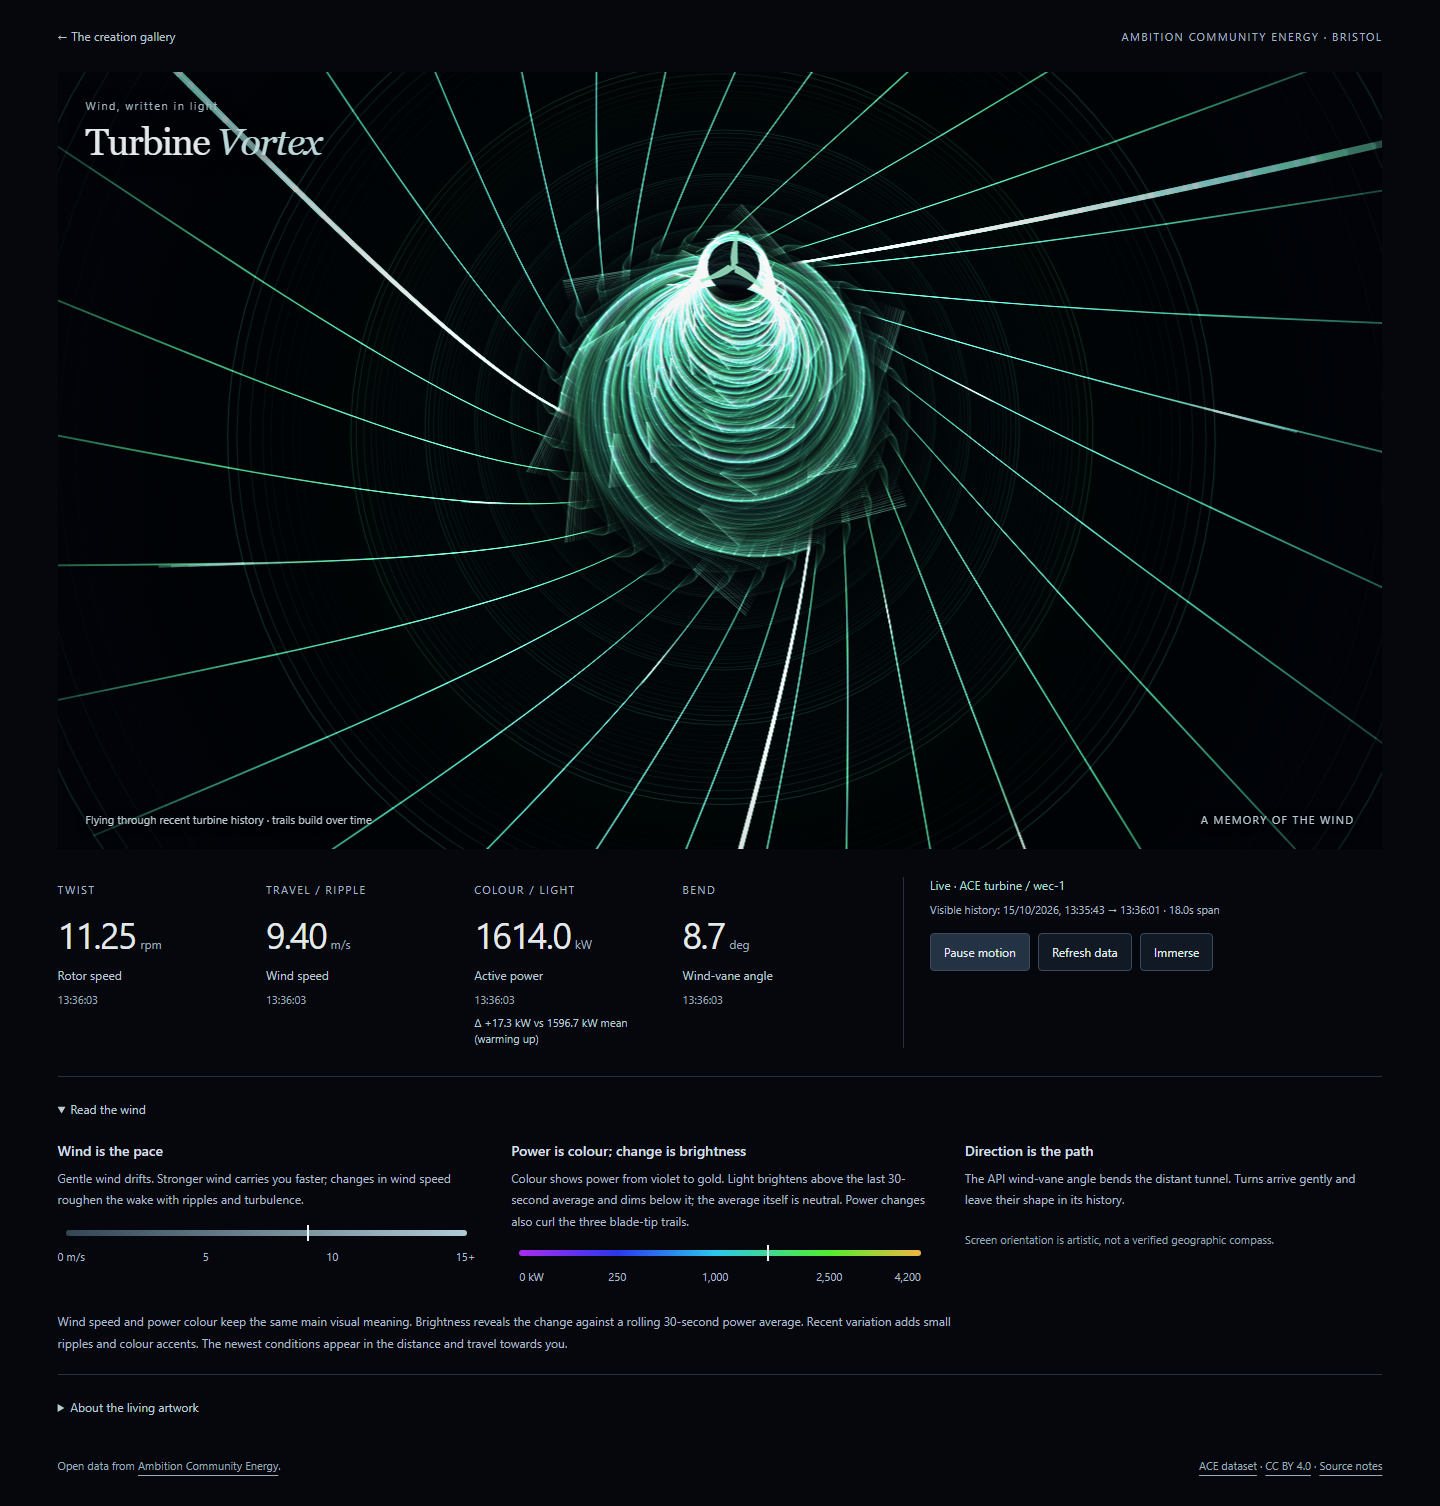
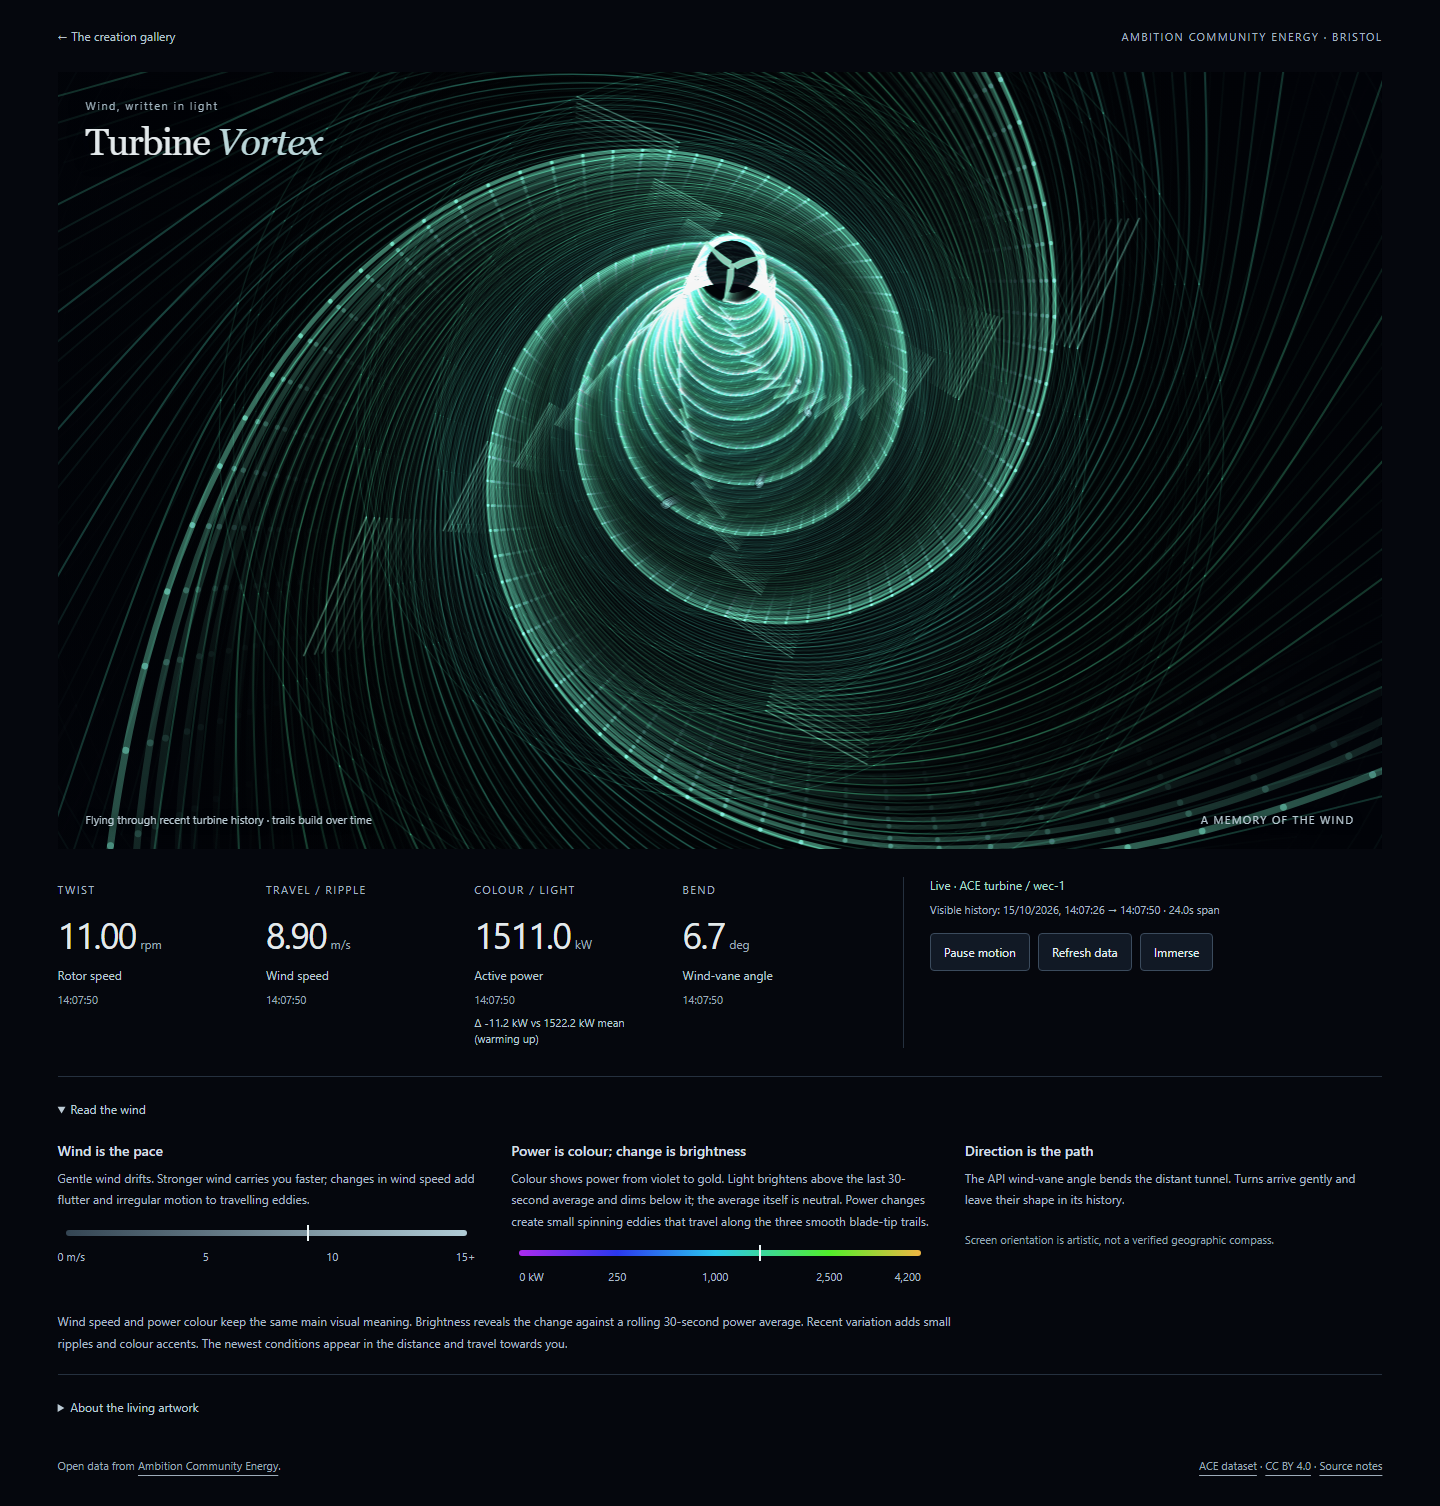
Replace wake deformation with separate travelling spinning eddies

diff --git a/site/creations/turbine-vortex/index.html b/site/creations/turbine-vortex/index.html
@@ -15,8 +15,8 @@
 <div><span class="eyebrow">BEND</span><p><strong id="direction">—</strong> <span>deg</span></p><span class="label">Wind-vane angle</span><time id="direction-time">No observation</time></div>
 </div><div class="connection"><p id="status" role="status">Connecting to ACE…</p><p id="observed">No readings yet</p><div class="controls"><button id="pause" type="button" aria-pressed="false">Pause motion</button><button id="refresh" type="button">Refresh data</button><button id="fullscreen" type="button">Immerse</button></div></div></section>
 <details class="reading-guide" open><summary>Read the wind</summary><div class="legend-grid">
-<div><h2>Wind is the pace</h2><p>Gentle wind drifts. Stronger wind carries you faster; changes in wind speed roughen the wake with ripples and turbulence.</p><div class="scale wind-scale" aria-hidden="true"><i id="wind-marker"></i></div><div class="scale-labels"><span>0 m/s</span><span>5</span><span>10</span><span>15+</span></div></div>
-<div><h2>Power is colour; change is brightness</h2><p>Colour shows power from violet to gold. Light brightens above the last 30-second average and dims below it; the average itself is neutral. Power changes also curl the three blade-tip trails.</p><div class="scale power-scale" aria-hidden="true"><i id="power-marker"></i></div><div class="power-labels"><span style="--at:0%">0 kW</span><span style="--at:24.4%">250</span><span style="--at:48.8%">1,000</span><span style="--at:77.2%">2,500</span><span style="--at:100%">4,200</span></div></div>
+<div><h2>Wind is the pace</h2><p>Gentle wind drifts. Stronger wind carries you faster; changes in wind speed add flutter and irregular motion to travelling eddies.</p><div class="scale wind-scale" aria-hidden="true"><i id="wind-marker"></i></div><div class="scale-labels"><span>0 m/s</span><span>5</span><span>10</span><span>15+</span></div></div>
+<div><h2>Power is colour; change is brightness</h2><p>Colour shows power from violet to gold. Light brightens above the last 30-second average and dims below it; the average itself is neutral. Power changes create small spinning eddies that travel along the three smooth blade-tip trails.</p><div class="scale power-scale" aria-hidden="true"><i id="power-marker"></i></div><div class="power-labels"><span style="--at:0%">0 kW</span><span style="--at:24.4%">250</span><span style="--at:48.8%">1,000</span><span style="--at:77.2%">2,500</span><span style="--at:100%">4,200</span></div></div>
 <div><h2>Direction is the path</h2><p>The API wind-vane angle bends the distant tunnel. Turns arrive gently and leave their shape in its history.</p><p class="quiet-note">Screen orientation is artistic, not a verified geographic compass.</p></div>
 </div><p class="guide-note">Wind speed and power colour keep the same main visual meaning. Brightness reveals the change against a rolling 30-second power average. Recent variation adds small ripples and colour accents. The newest conditions appear in the distance and travel towards you.</p></details>
 <details class="technical-notes"><summary>About the living artwork</summary><div class="explanation"><p>Measured RPM turns three blades inside a circular rotor. Three bright trails flow from their tips; this is an artistic wake, not a fluid simulation. Wind controls travel and ripples, power controls colour and streak density while its deviation from a 30-second mean controls brightness, and wind-vane angle steers the tunnel. These are artistic mappings, not a physical simulation. History builds from live readings during this visit; startup geometry uses the first reading throughout.</p><p>One combined request every two seconds. Observation timestamps come from the data, displayed in your local timezone. The visible-history span shows the oldest and newest observations still represented. Freshness uses API-relative signal ages and elapsed time since observations advance, not differences from the computer clock. If any signal is invalid, unavailable or stops advancing for over 60 seconds, the artwork rests with labelled retained readings. No simulated readings replace live data.</p><p>Immerse fills the screen. Its controls fade after six seconds of inactivity; move, tap or use the keyboard to bring them back. Connection warnings remain visible. Pause and reduced-motion support are available throughout.</p></div></details>

diff --git a/site/creations/turbine-vortex/README.md b/site/creations/turbine-vortex/README.md
@@ -26,13 +26,13 @@ Docs, OpenAPI, `/v1/sites`, `/v1/sites/ace/assets`, `/v1/families` and a live co
 
 Rotor angular velocity is `RPM × 2π/60 × 1.0`, capped at 30 RPM as an artistic comfort bound. At a steady 12 RPM, the blades complete one revolution in five seconds. Rotation eases towards the measured speed with a 2.5-second time constant. Zero RPM stops rotation; artistic forward travel can continue when all signals are fresh. The travelling wake retains its additional artistic depth twist.
 
-The main meanings stay stable across visits: wind travel uses `clamp(wind/15)` and power uses `clamp(power/4200)`. Fifteen m/s is an artistic scale ceiling, not a rated turbine limit. The 4200 kW value is the nominal turbine power documented in the API introduction. Negative power remains visible but maps to the zero-generation colour. Wind and power each also use five minutes of fresh, distinct observations for small detail accents. Their 10th–90th percentile ranges resist spikes; the range adapts with a 30-second time constant and minimum spans of **1.5 m/s** and **250 kW**. Adaptive power changes ring hue by at most ±6 degrees. Absolute wind modulates light-wave spacing; the local experiment additionally uses wind-speed changes to roughen the downstream wake. Adaptation does not remap the main flight speed, palette or streak density. Duplicate observations do not overweight the history. No historical API request is made. Rotation, wind, colour and detail targets ease over 2.5 seconds; brightness uses a faster 0.6-second time constant.
+The main meanings stay stable across visits: wind travel uses `clamp(wind/15)` and power uses `clamp(power/4200)`. Fifteen m/s is an artistic scale ceiling, not a rated turbine limit. The 4200 kW value is the nominal turbine power documented in the API introduction. Negative power remains visible but maps to the zero-generation colour. Wind and power each also use five minutes of fresh, distinct observations for small detail accents. Their 10th–90th percentile ranges resist spikes; the range adapts with a 30-second time constant and minimum spans of **1.5 m/s** and **250 kW**. Adaptive power changes ring hue by at most ±6 degrees. Absolute wind modulates light-wave spacing; the local experiment additionally uses wind-speed changes to flutter travelling eddies. Adaptation does not remap the main flight speed, palette or streak density. Duplicate observations do not overweight the history. No historical API request is made. Rotation, wind, colour and detail targets ease over 2.5 seconds; brightness uses a faster 0.6-second time constant.
 
 Wind controls light-wave spacing and camera speed `0.4 + 1.2 × clamp(wind/15)` in artistic depth units per second. Fixed power colour uses `sqrt(clamp(power/4200))` to move from hue 280 (violet) to 190 (cyan) to 40 (gold), revealing detail at low output without adapting the main meaning. The guide labels 0, 250, 1000, 2500 and 4200 kW on that same scale. Higher absolute power also creates more bright streaks. Brightness instead shows deviation from a **time-weighted trailing 30-second power mean**, calculated from distinct observation timestamps as a piecewise-constant signal. The current sample has zero duration when it first arrives; earlier readings contribute according to how long they applied. Brightness is `0.5 + 0.35 × clamp((power - mean) / max(25 kW, abs(mean) × 0.05), -1, 1)`: above-average power brightens, below-average power dims, and the mean is neutral. The minimum 25 kW span limits noise amplification. The readout shows the mean and signed difference, with a warming-up label until 30 seconds of observations are available. A gap longer than 60 seconds resets the mean. Each emitted layer retains its original relative brightness as it travels. These mappings express conditions rather than simulate physics or energy totals.
 
 Vane direction is wrapped to [-180,180) for rendering, with an eight-second time constant and shortest-arc easing across wraparound. Each layer remembers its angle. Sine/cosine project it onto a bounded screen bend, strongest in the distance; historical bends travel towards the viewer. Screen-up/left/right are artistic orientations, not geographic bearings. No nacelle angle or unverified compass transformation is inferred.
 
-`tunnel.mjs` keeps an in-memory sequence of cross-sections. Every 0.65 seconds of active animation a new layer stores the smoothed wind, power, vane angle, brightness, detail accents, rotor-driven twist and current observation time. Those attributes remain attached to it as it approaches the viewer. Perspective expansion makes layers and bright beads pass out of the frame. Thirty-two fine wall filaments provide context; **three brighter wake strands begin at the exact tips of a three-blade rotor**. The rotor and calm cross-sections are circular in equal pixel coordinates, without vertical squash. In the local experiment, wind-change turbulence adds downstream radial/angular ripples while leaving the rotor plane circular. This is an artistic tip-wake depiction, not a fluid-dynamics simulation. Wind-dependent travel yields roughly **17–69 seconds of active visual history**; layers are discarded when their complete wake envelope passes beyond the furthest viewport corner, or crosses the near plane. This can shorten the visible span from the depth-only limit, depending on screen shape and wind. Storage is also capped at 140 layers; expired layers have no persistent references. The five-minute adaptive buffers are capped at 512 samples each, and the 30-second power buffer at 256 samples (normally far fewer at two-second polling). Startup geometry is initialized together from the first live state, not a fabricated historical feed. History then develops from readings received during this visit, without extra API requests or persistent storage.
+`tunnel.mjs` keeps an in-memory sequence of cross-sections. Every 0.65 seconds of active animation a new layer stores the smoothed wind, power, vane angle, brightness, detail accents, rotor-driven twist and current observation time. Those attributes remain attached to it as it approaches the viewer. Perspective expansion makes layers and bright beads pass out of the frame. Thirty-two fine wall filaments provide context; **three brighter wake strands begin at the exact tips of a three-blade rotor**. The rotor and calm cross-sections are circular in equal pixel coordinates, without vertical squash. In the local experiment, wind-change turbulence affects separate travelling eddies while the main spirals remain smooth. This is an artistic tip-wake depiction, not a fluid-dynamics simulation. Wind-dependent travel yields roughly **17–69 seconds of active visual history**; layers are discarded when their complete wake envelope passes beyond the furthest viewport corner, or crosses the near plane. This can shorten the visible span from the depth-only limit, depending on screen shape and wind. Storage is also capped at 140 layers; expired layers have no persistent references. The five-minute adaptive buffers are capped at 512 samples each, and the 30-second power buffer at 256 samples (normally far fewer at two-second polling). Startup geometry is initialized together from the first live state, not a fabricated historical feed. History then develops from readings received during this visit, without extra API requests or persistent storage.
 
 The canvas uses frame-rate-independent exponential fading with a 0.26-second time constant, leaving visible phosphor-like echoes for about 1.2 seconds. Rendering is capped at 30fps, with geometry reused across rings and wall filaments and device-pixel ratio capped at two. This limits raster work during long sessions; actual frame rate depends on hardware. Pause stops both layer movement and trail decay. Stale/unavailable data draws a still subdued tunnel; recovery resumes the retained layers. Resizing clears pixel trails but retains layer history. No external images or rendering libraries are used.
 
@@ -50,10 +50,10 @@ Run `node scripts/validate.mjs` from the repository root and `node --test site/c
 
 ## Local smooth-wake experiment
 
-This local branch retains the 1.0 RPM multiplier. Spiral segments now use continuous-tangent cubic curves rather than straight chords. The three main tip trails are additionally sampled between historical layers (3–16 subdivisions, depending on angular/depth separation) before curve drawing, preserving smooth coils at higher rotor speeds. Subdivisions are transient render geometry, not extra retained history.
+This local branch retains the 1.0 RPM multiplier. Spiral segments use continuous-tangent cubic curves instead of straight chords. The three tip trails are sampled between historical layers (3–16 subdivisions, depending on angular/depth separation) before curve drawing. Subdivisions are transient geometry, not extra retained history.
 
-Projection uses a single world unit, `1.25 × min(canvas width, canvas height)`, for radius and both bend axes, anchored at the exact viewport centre. Swapping portrait and landscape dimensions no longer stretches the bend direction or magnitude relative to the rotor. A larger window still reveals/rescales the scene naturally.
+Projection uses a single world unit, `1.25 × min(canvas width, canvas height)`, for radius and both bend axes, anchored at the exact viewport centre. Swapping portrait and landscape no longer stretches the bend direction or magnitude relative to the rotor. A larger window naturally reveals/rescales the scene.
 
-Power deviation against the trailing 30-second average also drives small curls in the three tip trails. Curl strength is the absolute normalized power deviation already used by brightness; the signed deviation controls curl handedness. Effects ease over 1.2 seconds and grow downstream from zero at the blade tips, keeping the rotor and trail origins intact. These are artistic shedding effects, not a fluid model.
+Small, separate two-arm spiral eddies spin around centres carried along the three smooth tip trails by their retained history layers. Power deviation against the 30-second average controls their occurrence, spin strength and handedness. Wind-speed changes add bounded flutter and irregular motion to those eddies. The main spiral lines are not deformed by either effect.
 
-Wind turbulence uses the change between distinct wind observations divided by their elapsed data time (m/s per second). A rate of 0.5 m/s per second reaches the artistic maximum. Duplicate timestamps are ignored, unchanged wind settles to calm, and a gap beyond 60 seconds resets the derivative. Smoothed, bounded angular/radial ripples affect the downstream wake, while the rotor plane remains circular. Offscreen disposal includes a conservative envelope for curls and ripples, and all retained-buffer caps remain in force.
+Wind change is measured between distinct observations divided by elapsed data time (m/s per second); 0.5 m/s per second reaches the artistic maximum. Duplicate timestamps are ignored and gaps beyond 60 seconds reset the derivative. Effects ease over 1.2 seconds, grow downstream and do not detach the blade tips. The maximum eddy radius is 30 pixels. Spin and travel freeze on pause. Eddies have no separate particle history or buffers and are discarded with their parent layers, including a 52-pixel offscreen margin for their size/flutter. Existing retained-buffer caps remain in force. These are artistic effects, not a fluid model.
